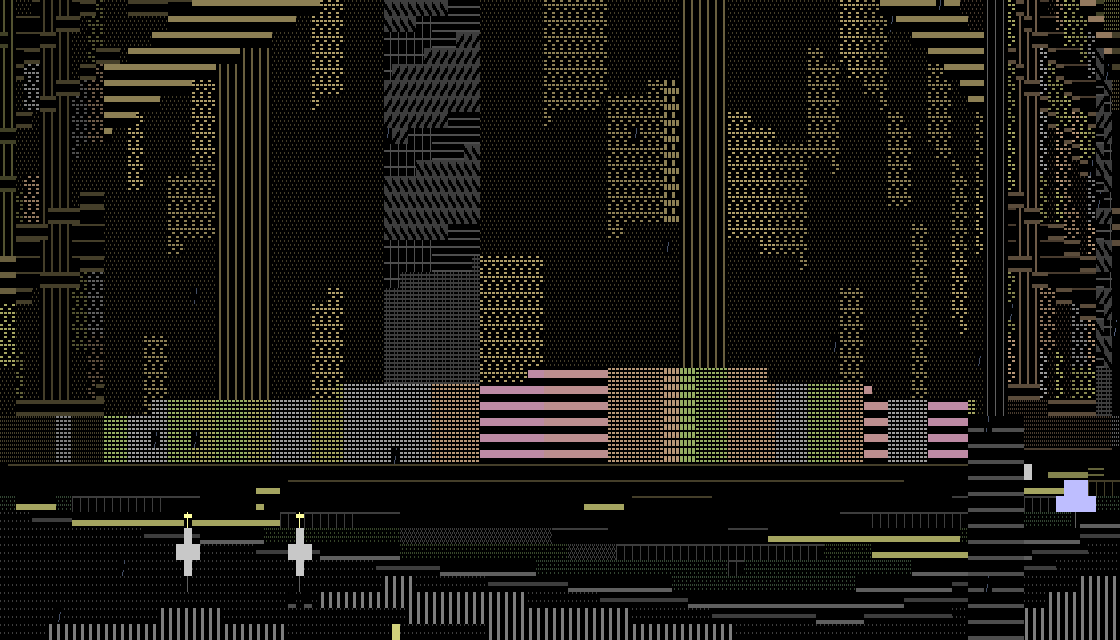
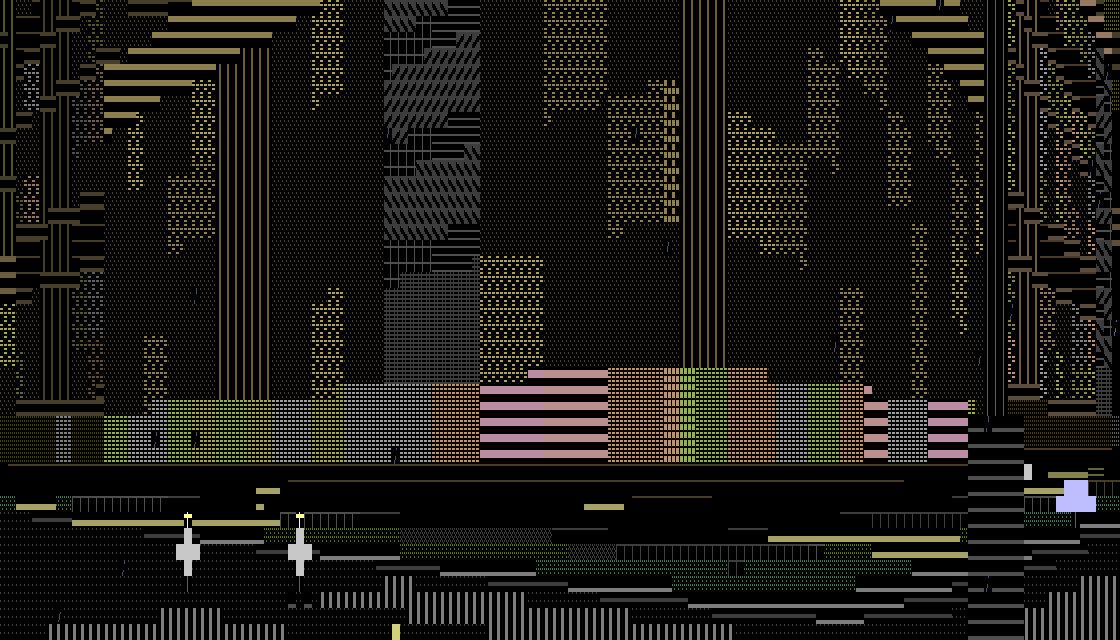
A pavement you can see, and grass with the green turned up
The street read as ending at the kerb. Cement at night is the thing under
the street lights and it was drawn at luminance three, a step below the
paint on the road beside it, so the band that people are actually on was the
darkest part of the street. The grass was worse: luminance two, which after
the distance ramp has taken two steps off it is 50,69,50 - a colour with no
green left in it.

Near the camera, with the moon up:

                was            is
    kerb        200,200,200    255,255,255
    paving      126,126,126    156,156,156
    grass        77,107, 77    162,226,162
    hedge        77,107, 77    127,177,127
    plaza        95, 95, 95    156,156,156

The kerb goes up with the paving rather than staying where it was, because
it is the line that says where the carriageway stops and it only reads as
one while nothing beside it is as bright. There is now a test for that
invariant: every other band of a pavement cell has to come out below the
kerb, sampled across the whole cell.

The grass stays `H_GREEN` and does not become `H_LIGHT_GREEN`, which is the
wrong way round until you look at what the two hues do at the top of their
ramps. This palette scales chroma with luminance, so green at six is
162,226,162 - a pale, nearly white green - and light green at six is
176,224,134, which is olive. The bright green is the greener of the two.
The light-green tufts stay as tufts; they are what keeps a verge from being
one flat colour.
[…]

diff --git a/crates/ascitty-core/src/raycast.rs b/crates/ascitty-core/src/raycast.rs
@@ -465,12 +465,12 @@ fn ground(city: &City, atmos: &Atmos, light: &Light, wx: Fx, wy: Fx, dist: Fx) -
         Kind::Park => {
             let h = hash3(gx as u32, gy as u32, (fixed::floor(fx * 4) + fixed::floor(fy * 4)) as u32);
             if h & 7 == 0 {
-                (catalog::FLORA_HEDGE, palette::H_GREEN, 3)
+                (catalog::FLORA_HEDGE, palette::H_GREEN, 4)
             } else {
-                (catalog::FLORA_GRASS, palette::H_GREEN, 2)
+                (catalog::FLORA_GRASS, palette::H_GREEN, 5)
             }
         }
-        Kind::Plaza => (catalog::ROAD_PAVING, palette::H_WHITE, 2),
+        Kind::Plaza => (catalog::ROAD_PAVING, palette::H_WHITE, 4),
         Kind::Building => (catalog::G_SOLID, palette::H_BLACK, 0),
     };
 
@@ -554,8 +554,9 @@ fn edge_distance(sides: u8, fx: Fx, fy: Fx) -> Fx {
 ///
 /// Four bands, because a pavement seen in perspective is mostly its edges:
 ///
-/// - the **kerb**, the brightest thing on the ground, and the line that says
-///   where the carriageway stops
+/// - the **kerb**, the brightest thing on the ground - and it has to stay
+///   the brightest, so raising the paving raises it too - and the line that
+///   says where the carriageway stops
 /// - the **verge**: grass, and what the trees are planted in.  This is the
 ///   band that separates the traffic from the people, and putting the trees
 ///   in it rather than in the paving is the difference between a street with
@@ -570,15 +571,23 @@ fn edge_distance(sides: u8, fx: Fx, fy: Fx) -> Fx {
 fn pavement(city: &City, gx: i32, gy: i32, fx: Fx, fy: Fx) -> (catalog::GlyphId, u8, u8) {
     let kerb = from_kerb(city, gx, gy, fx, fy);
     if kerb < KERB_BAND {
-        return (catalog::ROAD_KERB, palette::H_WHITE, 5);
+        return (catalog::ROAD_KERB, palette::H_WHITE, 6);
     }
     if kerb < VERGE_BAND {
         // Planted verge.
+        //
+        // Green rather than light green for the grass, which is the wrong
+        // way round until you look at what the two hues do at the top of
+        // their ramps: this palette scales chroma with luminance, so green
+        // at six is 162,226,162 - a pale, almost white green - while light
+        // green is 176,224,134, which is olive.  The bright green is the
+        // greener of the two, and the light-green tufts are what keeps a
+        // verge from being one flat colour.
         let h = hash3(gx as u32, gy as u32, 0x_9E_46_E0_00);
         return match h & 7 {
-            0 => (catalog::FLORA_HEDGE, palette::H_GREEN, 3),
-            1..=2 => (catalog::FLORA_GRASS, palette::H_LIGHT_GREEN, 3),
-            _ => (catalog::FLORA_GRASS, palette::H_GREEN, 2),
+            0 => (catalog::FLORA_HEDGE, palette::H_GREEN, 4),
+            1..=2 => (catalog::FLORA_GRASS, palette::H_LIGHT_GREEN, 5),
+            _ => (catalog::FLORA_GRASS, palette::H_GREEN, 5),
         };
     }
     if from_wall(city, gx, gy, fx, fy) < SEAM_BAND {
@@ -586,12 +595,18 @@ fn pavement(city: &City, gx: i32, gy: i32, fx: Fx, fy: Fx) -> (catalog::GlyphId,
     }
 
     // Cement, and what has been spilled on it.
+    //
+    // A step brighter than it was, all four of them, because at luminance
+    // two and three the pavement sat below the carriageway's own markings
+    // and the eye read the street as ending at the kerb.  Cement at night is
+    // not dark - it is the thing under the street lights - and the band that
+    // people are on should be the band you can see.
     let h = hash3(gx as u32, gy as u32, 0x_CE_11_7A_00);
     match h & 15 {
-        0 => (catalog::ROAD_GRATE, palette::H_WHITE, 2),
-        1 => (catalog::ROAD_PAVING, palette::H_BROWN, 2),
-        2..=4 => (catalog::ROAD_PAVING, palette::H_WHITE, 2),
-        _ => (catalog::ROAD_PAVING, palette::H_WHITE, 3),
+        0 => (catalog::ROAD_GRATE, palette::H_WHITE, 3),
+        1 => (catalog::ROAD_PAVING, palette::H_BROWN, 3),
+        2..=4 => (catalog::ROAD_PAVING, palette::H_WHITE, 3),
+        _ => (catalog::ROAD_PAVING, palette::H_WHITE, 4),
     }
 }
 
@@ -747,6 +762,74 @@ mod tests {
 
     /// Looking down puts the far edge of the visible world at the top of the
     /// frame, which is the whole claim [`pitch_down`] makes.
+    /// A cell of pavement, its bands sampled across their whole width.
+    fn pavement_bands(city: &City) -> Vec<(catalog::GlyphId, u8, u8)> {
+        // A pavement cell with a road on one side, which is what has a kerb.
+        let (gx, gy) = (0..SIZE as i32)
+            .flat_map(|y| (0..SIZE as i32).map(move |x| (x, y)))
+            .find(|&(x, y)| {
+                city.at(x, y).kind == Kind::Sidewalk
+                    && city.edges(x, y) >> world::EDGE_ROAD & 0x0f != 0
+            })
+            .expect("no pavement beside a road in the whole city");
+        let mut out = Vec::new();
+        for i in 0..16 {
+            for j in 0..16 {
+                let (fx, fy) = (fixed::ratio(i, 16), fixed::ratio(j, 16));
+                out.push(pavement(city, gx, gy, fx, fy));
+            }
+        }
+        out
+    }
+
+    /// The kerb stays the brightest thing on the ground.
+    ///
+    /// It is the line that says where the carriageway stops, and it only
+    /// reads as one while nothing beside it is as bright.  Raising the
+    /// paving without raising the kerb is what would break this, and the
+    /// paving has been raised twice.
+    #[test]
+    fn the_kerb_is_the_brightest_band_of_the_pavement() {
+        let city = City::generate(99);
+        let bands = pavement_bands(&city);
+        let kerb = bands
+            .iter()
+            .filter(|&&(g, _, _)| g == catalog::ROAD_KERB)
+            .map(|&(_, _, l)| l)
+            .min()
+            .expect("no kerb band");
+        for &(g, _, l) in &bands {
+            if g == catalog::ROAD_KERB {
+                continue;
+            }
+            assert!(l < kerb, "a band at luminance {l} is as bright as the kerb at {kerb}");
+        }
+    }
+
+    /// The pavement is somewhere you can see, and the grass is green.
+    ///
+    /// Both were a step or three darker and the street read as ending at
+    /// the kerb: cement at night is the thing under the street lights, and
+    /// the band that people are on should be the band you can see.  The
+    /// grass is the same argument with a hue on it - green at the top of
+    /// this palette's ramp is a pale, nearly white green, and that is what
+    /// a verge under a lamp looks like.
+    #[test]
+    fn the_pavement_and_the_grass_are_bright_enough_to_read() {
+        let city = City::generate(99);
+        for &(g, hue, l) in &pavement_bands(&city) {
+            if g == catalog::FLORA_GRASS || g == catalog::FLORA_HEDGE {
+                assert!(l >= 4, "grass at luminance {l}");
+                assert!(
+                    hue == palette::H_GREEN || hue == palette::H_LIGHT_GREEN,
+                    "the verge is hue {hue}"
+                );
+            } else if g == catalog::ROAD_PAVING || g == catalog::ROAD_GRATE {
+                assert!(l >= 3, "paving at luminance {l}");
+            }
+        }
+    }
+
     #[test]
     fn a_camera_aimed_down_has_the_furthest_ground_at_the_top() {
         let fov = crate::camera::fov_for_degrees(67.0);

diff --git a/crates/ascitty-bake/src/main.rs b/crates/ascitty-bake/src/main.rs
@@ -666,9 +666,15 @@ fn city(seed: u32) -> String {
                 None => {
                     let (col, tile) = match cell.kind {
                         Kind::Road => (palette::rgb_index(palette::H_WHITE, 1), catalog::ROAD_ASPHALT),
-                        Kind::Sidewalk => (palette::rgb_index(palette::H_WHITE, 2), catalog::ROAD_PAVING),
-                        Kind::Park => (palette::rgb_index(palette::H_GREEN, 2), catalog::FLORA_GRASS),
-                        _ => (palette::rgb_index(palette::H_WHITE, 2), catalog::ROAD_PAVING),
+                        // A cell of pavement is drawn in bands on the host
+                        // - kerb, verge, paving - and as one colour here,
+                        // so this is that cell's average and it moves when
+                        // the bands do.  Brighter, with the grass brighter
+                        // again, for the same reason: the ground people are
+                        // on should be the ground you can see.
+                        Kind::Sidewalk => (palette::rgb_index(palette::H_WHITE, 3), catalog::ROAD_PAVING),
+                        Kind::Park => (palette::rgb_index(palette::H_GREEN, 4), catalog::FLORA_GRASS),
+                        _ => (palette::rgb_index(palette::H_WHITE, 3), catalog::ROAD_PAVING),
                     };
                     colors.push(col);
                     tiles.push(tile);

diff --git a/docs/city.md b/docs/city.md
@@ -387,6 +387,40 @@ just inside the edge of the box. The stripes run *with* the traffic and
 repeat *across* it, which is the way round they are painted: a pedestrian
 walking north over an avenue crosses a ladder of north–south bars.
 
+## 7a. The pavement, in bands
+
+A pavement is drawn in four bands from the kerb to the building line, in
+continuous coordinates like the markings, because a pavement seen in
+perspective is mostly its edges.
+
+| Band | Width from the kerb | What |
+|---|---|---|
+| Kerb | a sixth of a cell, 1 m | `ROAD_KERB`, white, and the brightest thing on the ground |
+| Verge | to half a cell, 3 m | grass and hedge; where the street trees are planted |
+| Paving | to the building line | cement, stained cell by cell from a hash |
+| Seam | an eighth of a cell at the wall | a dark line, which is what stops a wall appearing to float |
+
+Putting the trees in the verge rather than in the paving is the difference
+between a street with trees on it and a street with obstacles on it.
+
+The brightness of the first three is not arbitrary and was raised once,
+because the street read as ending at the kerb: cement at night is the thing
+under the street lights, and the band people are on should be the band you
+can see. Near the camera, and with the moon up:
+
+| | was | is |
+|---|---|---|
+| Kerb | 200,200,200 | 255,255,255 |
+| Paving | 126,126,126 | 156,156,156 |
+| Grass | 77,107,77 | 162,226,162 |
+
+The grass is `H_GREEN` rather than `H_LIGHT_GREEN`, which is the wrong way
+round until you look at what the two do at the top of their ramps. This
+palette scales chroma with luminance, so green at six is a pale, nearly
+white green and light green at six is olive. The bright green is the greener
+of the two; the light-green tufts are what keeps a verge from being one flat
+colour.
+
 ## 8. The colours
 
 Eight facade hues, deliberately narrow: a night city is mostly two or three

diff --git a/README.md b/README.md
@@ -128,7 +128,7 @@ make walk     # watch the camera walk instead
 make run4     # play the Plus/4 build in xplus4
 make demo4    # ...and leave it alone; it drives itself
 
-make test     # 279 tests, about half a second
+make test     # 281 tests, about half a second
 make check    # the gate: tests, both builds, and both actually rendering
 make bench    # frames a second on this machine
 
@@ -598,7 +598,7 @@ Everything is indexed at **[docs/index.md](docs/index.md)**.
 
 Working: the renderer, all three cameras, the city generator with six
 building archetypes, the procedural font, the weather, the driving physics,
-the fare loop, the terminal front end and the Plus/4 build. 279 tests.
+the fare loop, the terminal front end and the Plus/4 build. 281 tests.
 
 Not yet: sub-cell rooflines, proper roof surfaces, scoring and grades,
 sprites and driving on the Plus/4, and the assembly inner loop that would

diff --git a/docs/lab-report.md b/docs/lab-report.md
@@ -588,7 +588,7 @@ exists for any structure to exceed.
 
 ### D. Verification
 
-279 assertions execute in approximately 0.2 s. The acceptance gate
+281 assertions execute in approximately 0.2 s. The acceptance gate
 additionally rebuilds both targets, regenerates the baked headers, renders a
 host frame, and boots the target program in an emulator to confirm
 non-trivial output. A target program that compiles is not evidence that it
